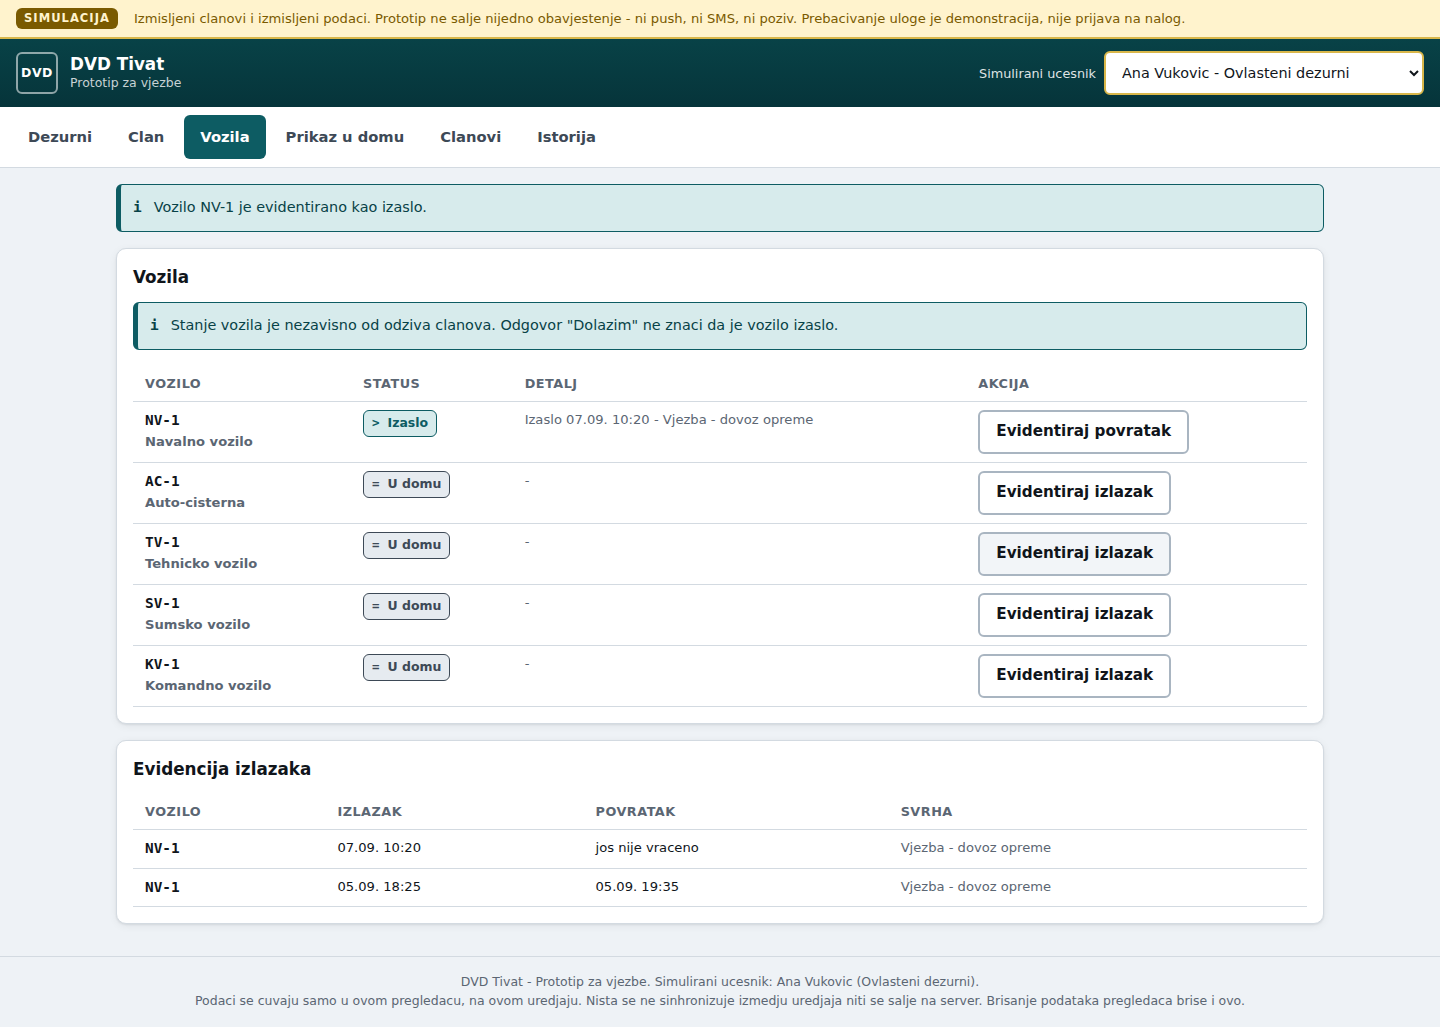
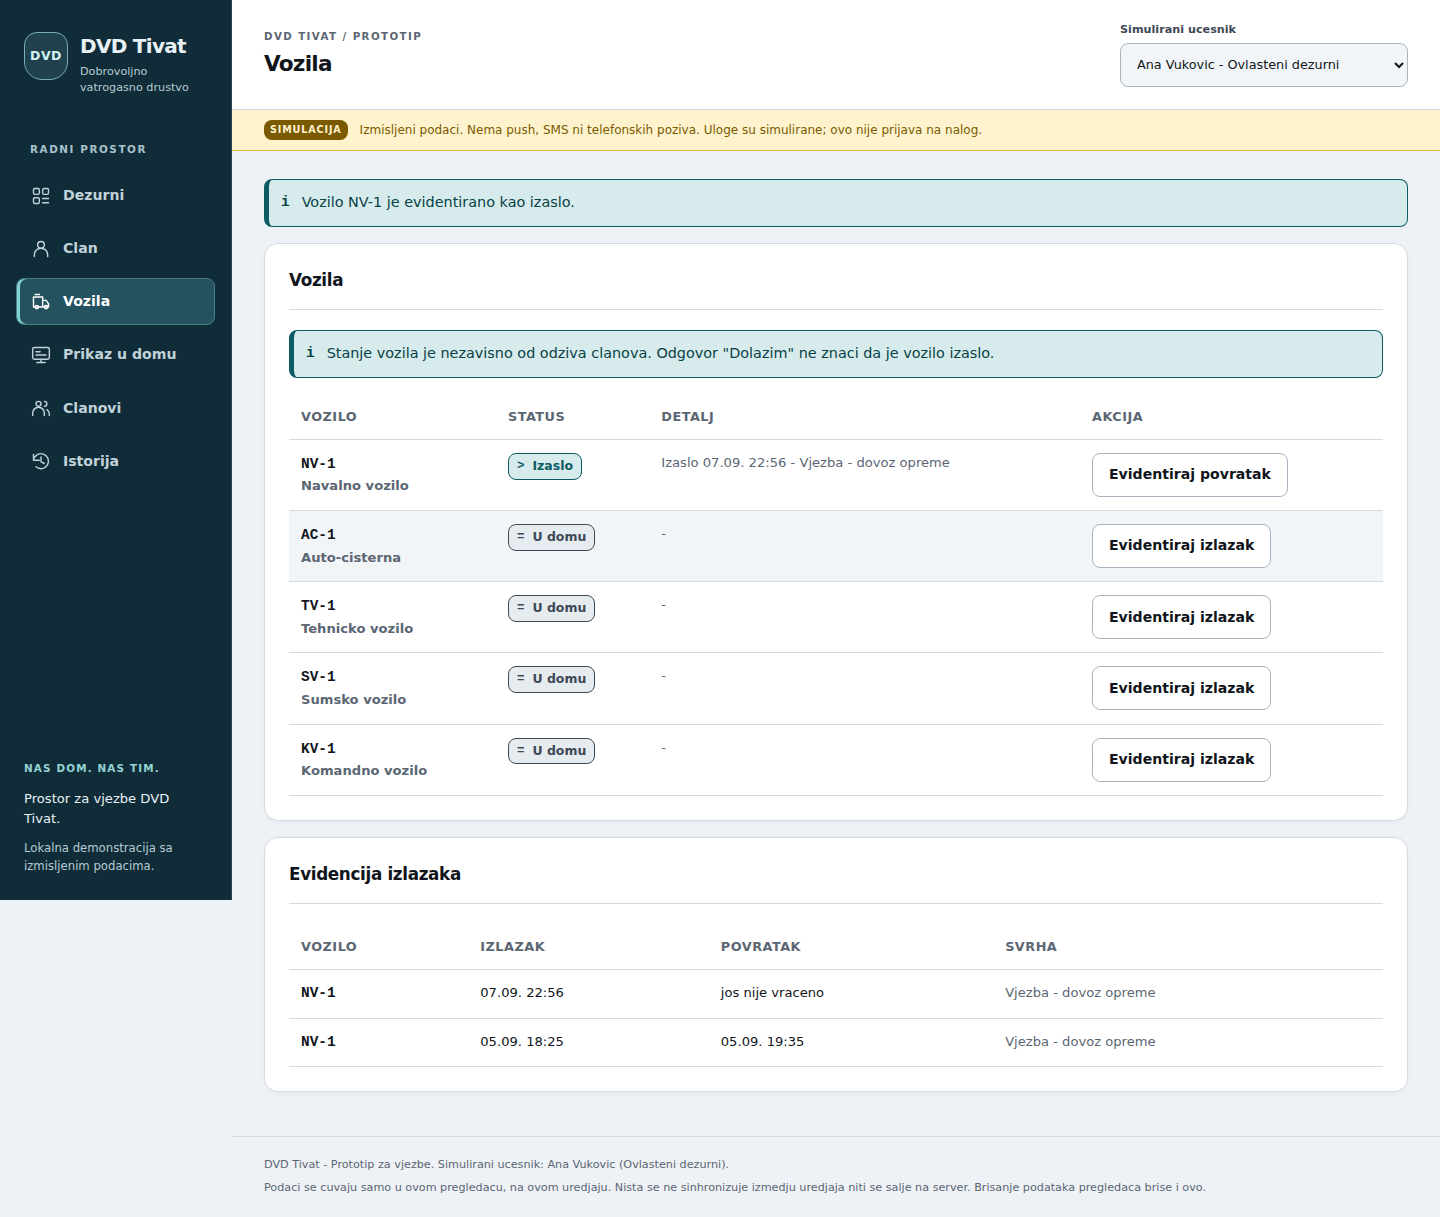
Add reviewed DVD Tivat interface screenshots

diff --git a/docs/ai/PROJECT_STATE.md b/docs/ai/PROJECT_STATE.md
@@ -23,11 +23,12 @@ Tivat call-out and response. No server, no accounts, no notifications, no real d
 
 ## Status
 
-**Phase 1 prototype complete; personalised interface under review.** Prior checkpoint PR #6 has
-49 unit and 40 browser/accessibility checks green. This pass adds the DVD Tivat layout, a route-safe
-keyboard skip link, readable-state preservation when writes fail, three browser scenarios and one
-unit regression. Current-head verification belongs in the work log and PR evidence, not inferred
-from the previous checkpoint. See [DESIGN_DIRECTION.md](../DESIGN_DIRECTION.md).
+**Phase 1 prototype complete; personalised interface ready for owner review.** On runtime head
+`dc38f1a`, 50 unit tests and 48 browser/accessibility checks passed; 12 current screenshots were
+captured on the same head. This pass adds the DVD Tivat layout, a route-safe keyboard skip link,
+readable-state preservation when writes fail, four browser scenarios and one unit regression.
+See [WORK_LOG.md](./WORK_LOG.md) for exact evidence and
+[DESIGN_DIRECTION.md](../DESIGN_DIRECTION.md) for the visual decisions.
 
 The owner expects **DVD Tivat only**, but the society has not confirmed that. Keep the UI focused
 on DVD Tivat; do not implement multi-society routing or treat this assumption as an agreed requirement.
@@ -94,7 +95,7 @@ The two that most affect the work:
 
 ## Next concrete action
 
-Review the personalised interface after stacked Draft PRs #3, #4, #5 and #6; evidence is recorded in
+Review Draft PR #7 after stacked Draft PRs #3, #4, #5 and #6; evidence is recorded in
 [WORK_LOG.md](./WORK_LOG.md). Use [DEMO_GUIDE.md](../DEMO_GUIDE.md) for the owner's first test and the
 meeting, then answer
 [PRODUCT_PLAN.md §G](../PRODUCT_PLAN.md#g-questions-for-the-meeting-with-the-society). Do not begin

diff --git a/docs/ai/WORK_LOG.md b/docs/ai/WORK_LOG.md
@@ -37,12 +37,19 @@ submission (pre-existing copy). It now distinguishes unsent, recorded and editin
 by one browser scenario in both viewports. Full-page screenshot capture now scrolls to the top so
 the sticky rail does not appear halfway down the image. Final follow-up CI belongs in the PR evidence.
 
+**Follow-up verification on `dc38f1a`:** GitHub CI run **34168251914**, job **101883472581**, attempt
+1: lint, strict typecheck, production build, **50 unit tests, 48 browser/axe checks and 2 screenshot
+scenarios all passed**. Twelve screenshots in artifact **10034881906** were downloaded, the ZIP
[1 lines of base64/hex data omitted]
+and phone images were visually reviewed before being committed. The artifact contained only the
+12 expected PNG basenames. No test was re-run; both CI runs were attempt 1.
+
 The interactive cloud browser could not open this environment's localhost (`ERR_BLOCKED_BY_CLIENT`),
 so browser verification and refreshed images use the repository's existing Playwright suite on a
 standard GitHub runner. Added a CI screenshot artifact step; no deployment or automatic image commit.
 The first local typecheck caught an optional indexed test value; corrected before CI.
 
-**Next:** review the actual screenshots and current-head results, then have the owner run the demo.
+**Next:** review Draft PR #7 and the committed screenshots, then have the owner run the demo.
 Keep all PRs Draft and unmerged; no publishing, licence, paid service or real member data.
 
 ---
